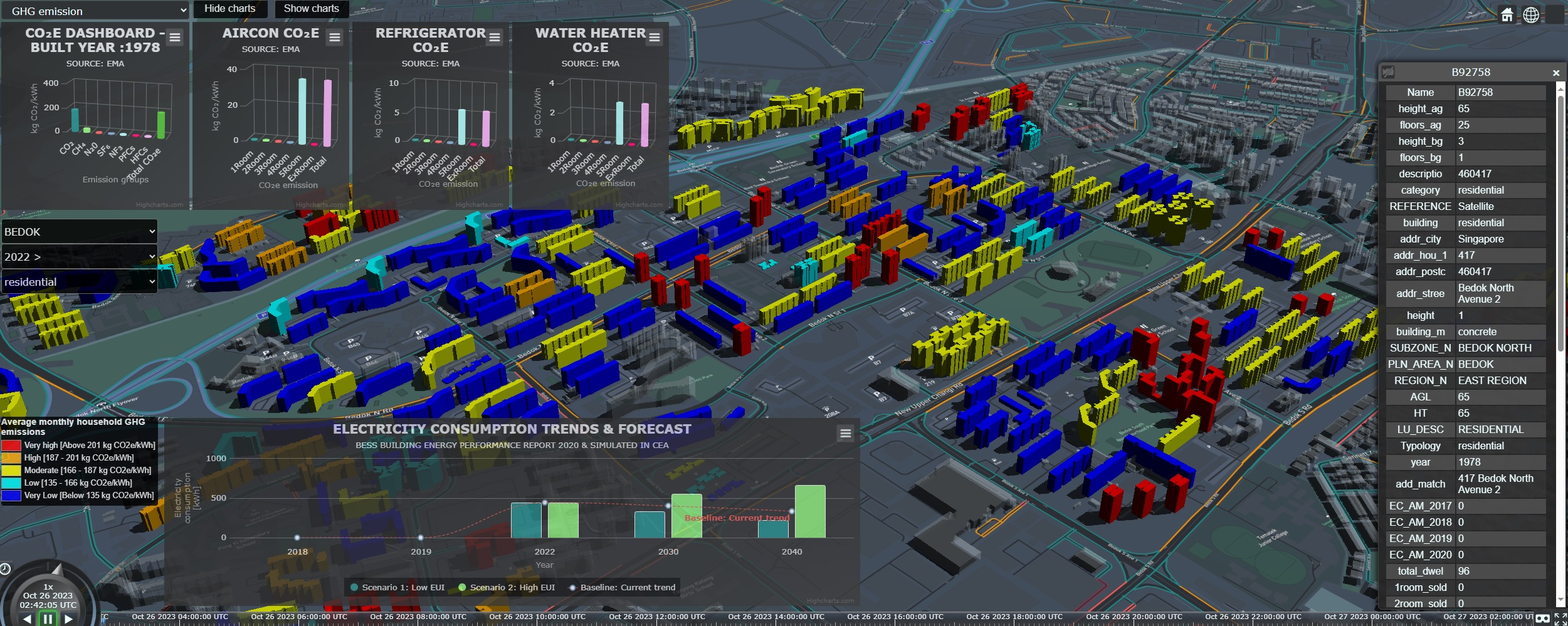
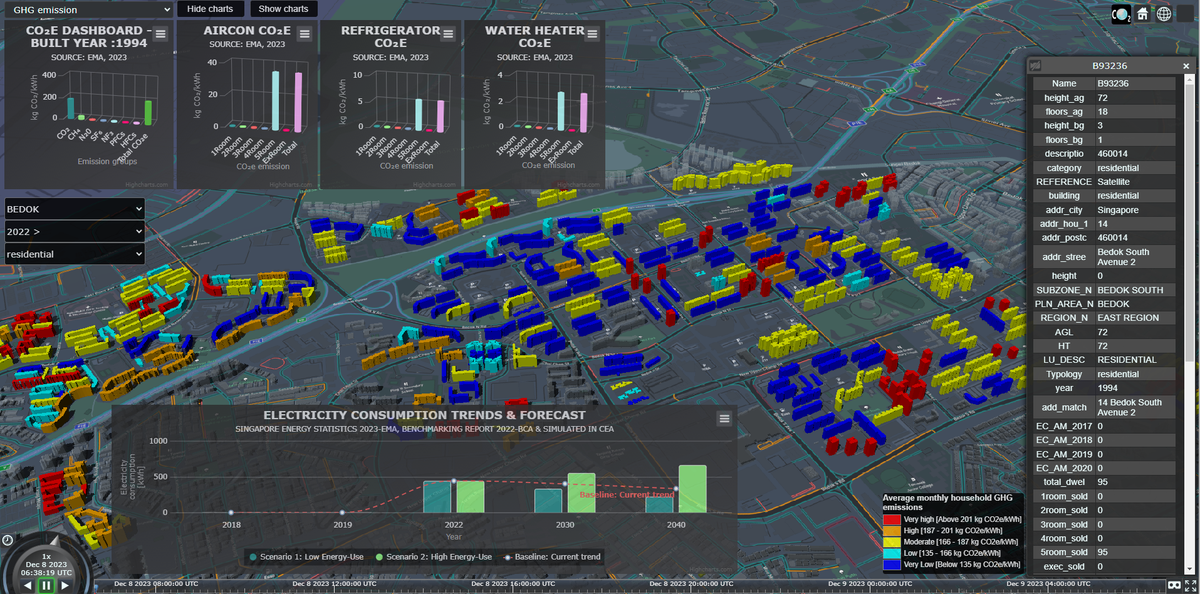
dashboard images

diff --git a/index.md b/index.md
@@ -12,16 +12,21 @@ layout: default
 * * *
 
 ### Instruction Video
+There are two scenes that users can set using the dashboard's top-left drop-down button.
+
+* Scene 1 (default) : GHG emissions - users can view operational ghg emissions and electricity consumption trends for built environment in Singapore.
+* Scene 2 : Potential for Intervention - users can run analysis to find buildings which need rejuvenation of building systems and an intervention from stakeholder towards decarbonisation pathway. Using weighted sliders, users can prioritise necessary parameters for decision-making of an intervention.
 
 <iframe width="1000" height="500" src="https://www.youtube.com/embed/EkGt_DRY8v0" frameborder="0" allow="autoplay; encrypted-media" allowfullscreen></iframe>
 
-### UDT-GHG Dashboard
+### UDT-GHG Dashboard - Scene 1
+The dashboard image below shows an example of Scene 1, with operational GHG emissions of buildings shown in a heat map (Red=very high GHG values and Blue=very low GHG values). The GHG inventory along with equipment-based-emissions for individual buildings (on-left-click) is shown on the top-left of dashboard. Electricity consumption trends at the bottom of the dashboard and metadata (right) with simulation results and information collected (building property, land-use, planning area, energy-use etc.) from open sources.
 
 ![Dashboard](assets\images\dashboard.jpg)
 
 * * *
 
-## Methodology for calculating building operational Greenhouse gas (GHG) emissions
+## Methodology for calculating building operational greenhouse gas (GHG) emissions
 
 * * *
 
@@ -29,11 +34,11 @@ layout: default
 
 ![The operational GHG emissions (Og) of buildings (CO2e/kWh—carbon dioxide equivalent per kilowatt hour) are calculated using a linear equation](/assets/images/linear_equation.jpg)
 
-Electricity demand (Del) in kWh (kilowatt-hours) by average values indicated in national benchmarking reports or results from a simulated energy demand model (CEA) or actual meter reading.
+Electricity demand (Del) in kWh (kilowatt-hours) by average values indicated in energy statistics <a href="https://www.ema.gov.sg/resources/singapore-energy-statistics/chapter3">reports</a>, national benchmarking <a href="https://www.bca.gov.sg/bess/benchmarkingreport/benchmarkingreport.aspx">reports</a> or results from a simulated energy demand model (CEA) or actual meter reading.
 
-The electricity grid emission factor is the average amount of CO2 that each grid-connected power unit emits per unit of net electricity produced in the system (Energy Market Authority-EMA's yearly Singapore energy statistics report provides the emission factor for Singapore).
+The electricity grid emission factor is the average amount of CO2 that each grid-connected power unit emits per unit of net electricity produced in the system (Energy Market Authority-EMA's yearly Singapore energy statistics <a href="https://www.ema.gov.sg/resources/singapore-energy-statistics/chapter2">report</a> provides the emission factor for Singapore).
 
-The Global Warming Potential (GWP) for each of the seven major GHGs [carbon dioxide (CO2), methane (CH4), perfluorocarbons (PFCs), hydrofluorocarbons (HFCs), sulfur hexafluoride (SF6), nitrous oxide (N2O), and nitrogen trifluoride (NF3)], compares the contribution of a given mass of a GHG to that of CO2 in terms of global warming over a definite time frame (for instance, 100 years). The GWP values for the most common GHGs (CO2, CH4, N2O) can be found in the Intergovernmental Panel on Climate Change (IPCC) reports.
+The Global Warming Potential (GWP) for each of the seven major GHGs [carbon dioxide (CO2), methane (CH4), perfluorocarbons (PFCs), hydrofluorocarbons (HFCs), sulfur hexafluoride (SF6), nitrous oxide (N2O), and nitrogen trifluoride (NF3)], compares the contribution of a given mass of a GHG to that of CO2 in terms of global warming over a definite time frame (for instance, 100 years). The GWP values for the most common GHGs (CO2, CH4, N2O) can be found in the Intergovernmental Panel on Climate Change (IPCC) <a href="https://www.ipcc.ch/assessment-report/ar6/">report</a>.
 
 * * *
 
@@ -52,6 +57,11 @@ After the normalisation step, each parameter is aggregated to find the Potential
 ### Aggregate Potential for Intervention after Normalisation:
 
 ![Aggregate Potential for Intervention after normalisation](/assets/images/PFI_2.jpg)
+
+### UDT-GHG Dashboard - Scene 2
+The dashboard image below shows an example of Scene 2, with potential of intervention analysis shown in a heat map (Purple=very high PFI values and Green=very low PFI values). Users can input weightages to the parameter using the slider (left-bottom) on the dashboard. By default, parameter weightages on the slider assigned to generate PFI maps are set to 1. Users may assign weightage based on their priority.
+
+![Dashboard](assets\images\dashboard2.jpg)
 
 ### Conclusion:
 
